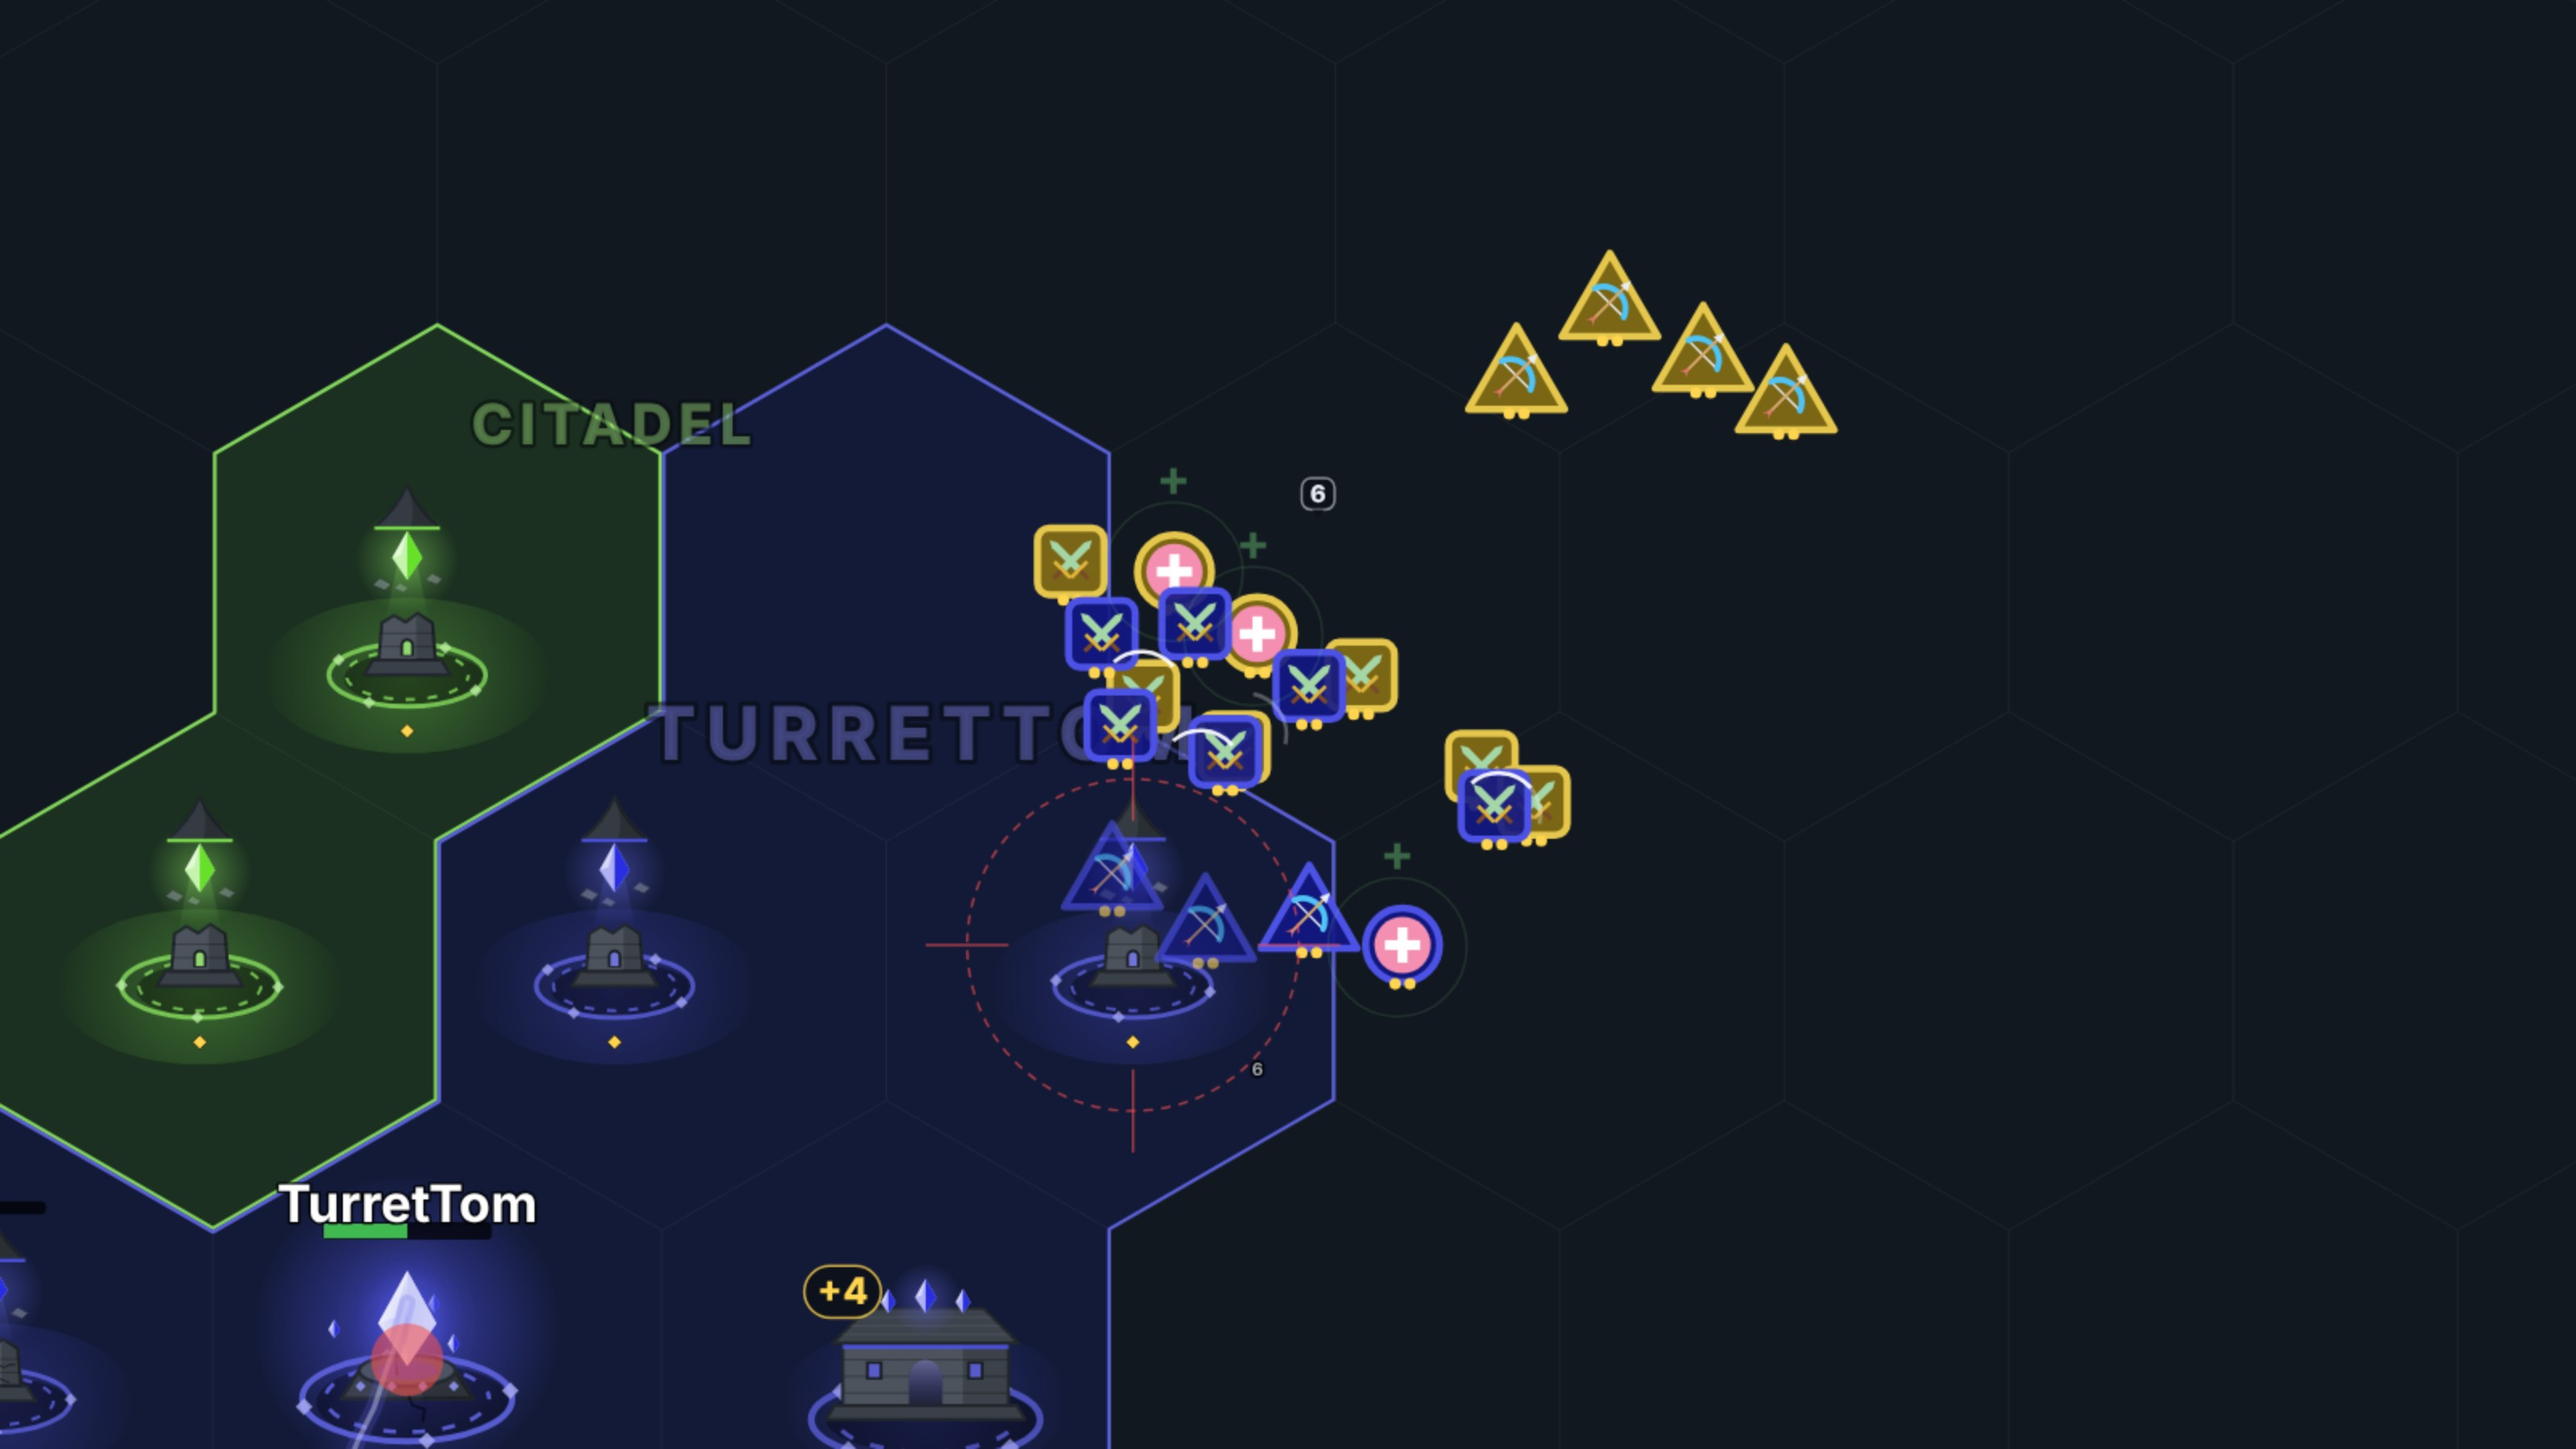
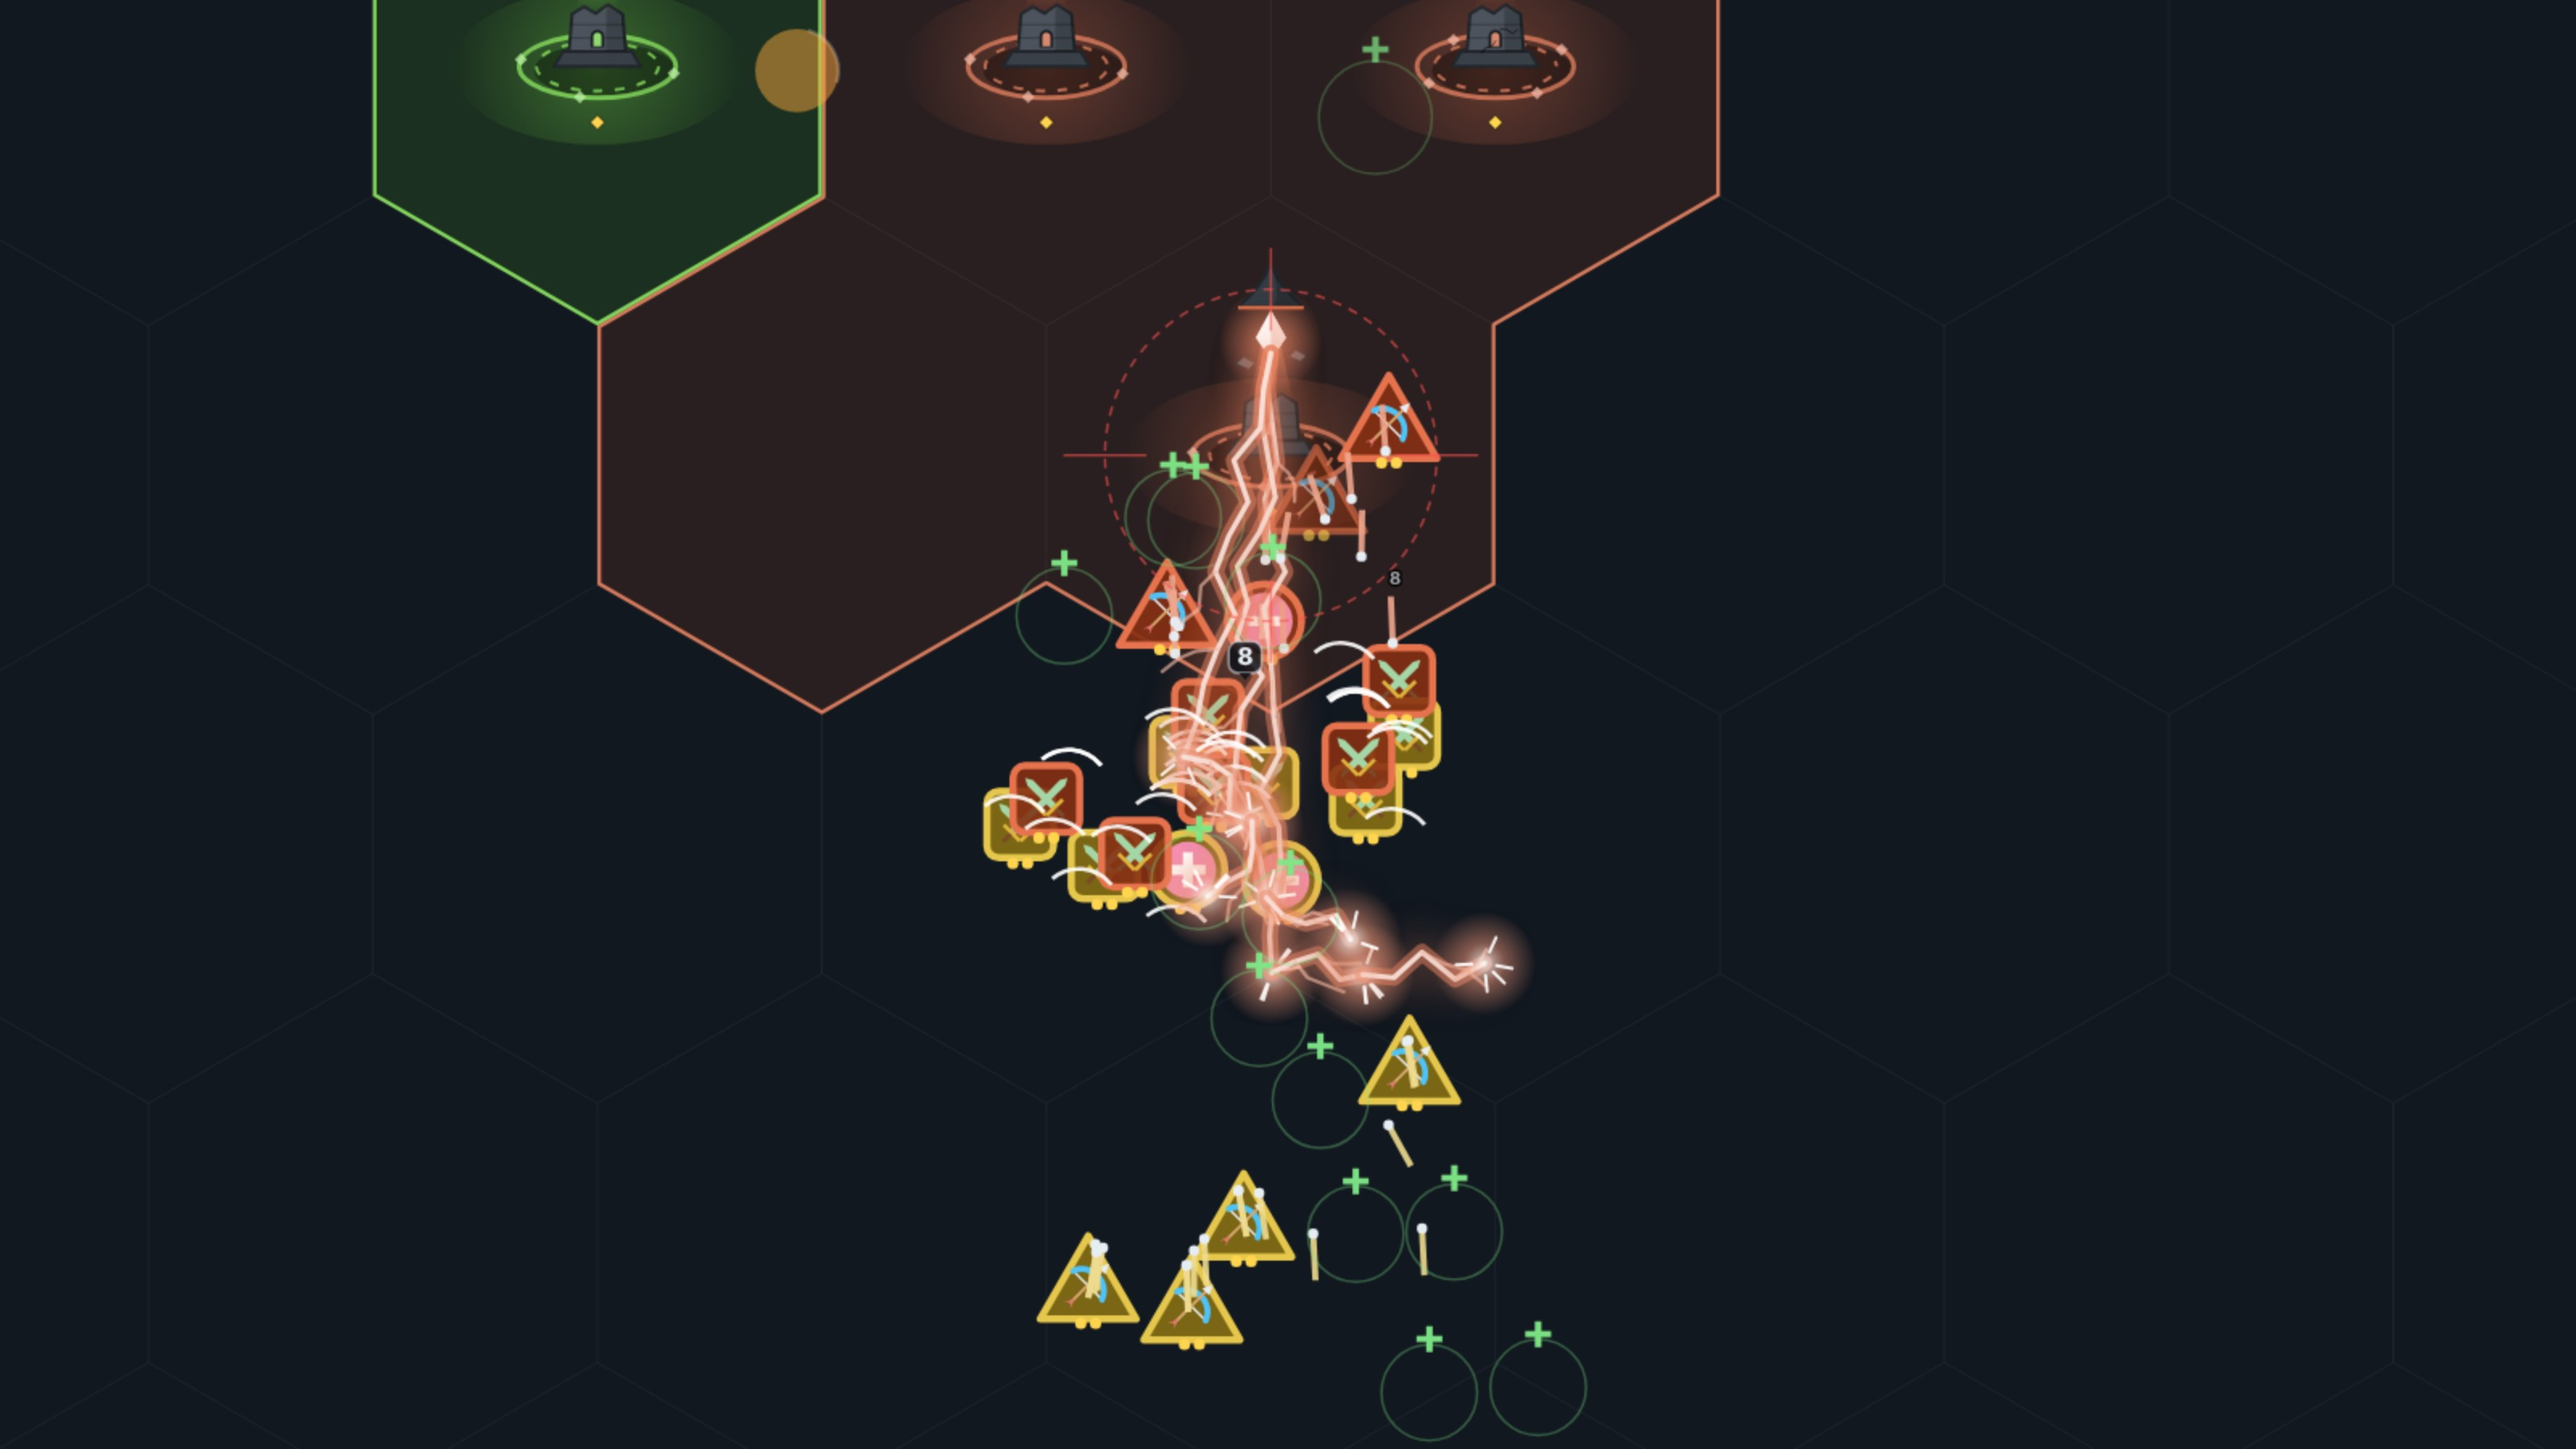
Stronger towers: chain lightning
Towers barely hurt the armies attacking them (40 dmg/s on one troop at a
time, out-healed by two medics). Now:
- Tower and core bolts chain to up to 2 more enemies within 2.5 tiles, each at
  75% of the previous hit.
- Tower damage 58 (was 40), but +20% per level (was +60%), so upgraded towers
  stay beatable.
Level 1: one wave fails, two waves take it losing about half; level 3 needs
about 14-16 troops. Rounds still last 12-22 minutes.

Claude-Session: https://claude.ai/code/session_01Ryddt8EqVvd3a1HwS4TL86

diff --git a/test/waves.test.js b/test/waves.test.js
@@ -179,7 +179,7 @@ test('orders: every squad, or only picked troops (which split off as a squad of 
 test('an attack marches across the map and takes an undefended tower', () => {
   const { g, a, b } = duel(5);
   const t = outpost(g, b);
-  const squad = troops(g, a, 'soldier', 5, a.core.x + 0.5, a.core.y + 2);
+  const squad = troops(g, a, 'soldier', 9, a.core.x + 0.5, a.core.y + 2);
   g.order(a.id, squad.map((u) => u.id), { k: 't', id: t.id });
   assert.ok(run(g, 120, () => t.owner !== b.id), 'tower should fall');
   assert.strictEqual(t.owner, a.id, 'the attackers destroy and claim it');
@@ -516,4 +516,20 @@ test('standing troops fill their hex in an even formation', () => {
   const h2 = new Set(second.map((u) => g.hexAt(Math.floor(u.x), Math.floor(u.y))));
   assert.strictEqual(h2.size, 1);
   assert.notStrictEqual([...h2][0], h, 'each squad has its own hex');
+});
+
+test("a tower's lightning chains on to nearby enemies, weaker each jump", () => {
+  const { g, a, b } = duel(33);
+  const t = outpost(g, b);
+  // three of a's soldiers in a tight line, the first in the tower's range
+  const near = troops(g, a, 'soldier', 3, t.x + 0.5 - 3, t.y + 0.5);
+  near.forEach((u, i) => { u.x = t.x + 0.5 - 3 - i * 1.0; u.y = t.y + 0.5; u.hp = u.maxHp = 1e6; u.attack = { k: 'p', id: g.idx(Math.floor(u.x), Math.floor(u.y)) }; });
+  g.buildUnitGrid();
+  t.cd = 0;
+  g.updateStructures(0.05);
+  const lost = near.map((u) => 1e6 - u.hp);
+  const dmg = C.towerStats('tower', t.level).damage;
+  assert.ok(Math.abs(lost[0] - dmg) < 1e-6, 'the nearest is hit in full');
+  assert.ok(Math.abs(lost[1] - dmg * C.CHAIN_FALLOFF) < 1e-6, 'the bolt jumps on, weaker');
+  assert.ok(Math.abs(lost[2] - dmg * C.CHAIN_FALLOFF ** 2) < 1e-6, 'and again');
 });

diff --git a/shared/config.js b/shared/config.js
@@ -76,6 +76,11 @@
     PROVOKE_RANGE: 7, // ...if it's within their range + this
     // Fog of war: you see your own land plus what your core, buildings and troops can see.
     CORE_SIGHT: 9,
+    // Chain lightning: a tower's (or core's) bolt jumps from its target to up to CHAIN_JUMPS more
+    // enemies, each within CHAIN_RANGE of the last one hit, dealing CHAIN_FALLOFF of the previous hit.
+    CHAIN_JUMPS: 2,
+    CHAIN_RANGE: 2.5,
+    CHAIN_FALLOFF: 0.75,
     TOWER_SIGHT_BONUS: 2, // towers see this much past their range
     BARRACKS_SIGHT: 5,
     SCOUT_RANGE: 45, // scouts explore up to this far from their core
@@ -150,7 +155,7 @@
     // Fixed structures.
     TOWERS: {
       tower: {
-        name: 'Tower', key: 'B', cost: 120, hp: 2400, range: 5, damage: 40, rate: 1,
+        name: 'Tower', key: 'B', cost: 120, hp: 2400, range: 5, damage: 58, dmgPerLevel: 0.2, rate: 1,
         color: '#80deea', desc: 'Zaps enemy troops that come near. Build on your own land',
       },
       barracks: {
@@ -216,7 +221,7 @@
     const l = level - 1;
     return {
       hp: Math.round(d.hp * (1 + 0.5 * l)),
-      damage: d.damage ? d.damage * (1 + 0.6 * l) : 0,
+      damage: d.damage ? d.damage * (1 + (d.dmgPerLevel ?? 0.6) * l) : 0,
       heal: d.heal ? d.heal * (1 + 0.6 * l) : 0,
       range: d.range ? d.range + 0.5 * l : 0,
       rate: d.rate || 0,

diff --git a/server/game/combat.js b/server/game/combat.js
@@ -128,7 +128,31 @@ module.exports = {
       if (!target) continue;
       sh.obj.cd = 1 / sh.rate;
       this.fx.push({ k: 'tshot', x1: sh.x, y1: sh.y, x2: round2(target.x), y2: round2(target.y), o: sh.owner });
+      // chain lightning: the bolt jumps on to nearby enemies, weaker each time
+      const hit = new Set([target.id]);
+      let from = target;
+      let dmg = sh.damage;
+      const chain = [];
+      for (let j = 0; j < C.CHAIN_JUMPS; j++) {
+        let next = null;
+        let nd = C.CHAIN_RANGE;
+        for (const u of this.nearUnits(from.x, from.y, C.CHAIN_RANGE)) {
+          if (u.owner === sh.owner || hit.has(u.id)) continue;
+          const d = dist(from.x, from.y, u.x, u.y);
+          if (d <= nd) {
+            nd = d;
+            next = u;
+          }
+        }
+        if (!next) break;
+        dmg *= C.CHAIN_FALLOFF;
+        hit.add(next.id);
+        chain.push([next, dmg]);
+        this.fx.push({ k: 'tshot', c: 1, x1: round2(from.x), y1: round2(from.y), x2: round2(next.x), y2: round2(next.y), o: sh.owner });
+        from = next;
+      }
       this.damageUnit(target, sh.damage, sh.owner);
+      for (const [u, d] of chain) if (this.units.has(u.id)) this.damageUnit(u, d, sh.owner);
     }
   },
 };

diff --git a/public/js/net.js b/public/js/net.js
@@ -228,8 +228,8 @@ function applyState(msg) {
       // the attacker lunges at its target (drawn in troops.js / camps.js)
       S.lunges.set(f.a, { at: now + INTERP_DELAY, x: f.x, y: f.y });
     }
-    if (f.k === 'tshot') {
-      // flare the shooting tower's (or core's) crystal
+    if (f.k === 'tshot' && !f.c) {
+      // flare the shooting tower's (or core's) crystal (chain jumps, f.c, start at a troop)
       const tx = Math.floor(f.x1);
       const ty = Math.floor(f.y1);
       const t = S.towers.get(grid.get(`${tx},${ty}`));

diff --git a/README.md b/README.md
@@ -48,7 +48,7 @@ closes after a minute. **Play** still drops you into the always-running public g
 | **Hunting** | **Right-click an enemy troop** to send your troops after it. They chase it down and focus it, ignoring other enemies on the way. When it dies they go after its squadmates within 6 tiles, then head home once the squad is gone. A red crosshair marks troops you're hunting. Hunts use the picked squads (or picked troops) like other orders, but are a one-off: the squads keep their standing orders. |
 | **The push** | Troops march across the map (pathfinding around structures), fight whatever they meet, then hit the target. When a tower falls, the push rolls on to that player's next tower, then their core. |
 | **Land** | The map is a grid of **hexagons**, and land is owned hex by hex. You start with your core's hex and the six around it. **Claim more with gold**: press `L` (or the **Land** button), then click an empty hex touching your border, or **drag along it** to claim a strip. **Double-click anywhere outside your land** to grow it one hex outward all round (if your gold doesn't cover the whole ring, the hexes nearest where you clicked come first). A hex costs more the more land you own (about 140g each at the start). **Enemy land can't be claimed**: take one of their towers and their hexes next to it open up (you get the tower's hex), and **destroying a core wins you all of that player's land** (a player who leaves is replaced by a bot, who keeps it). Open hexes can be claimed by anyone whose land touches them. A hex with a building in it always stays its owner's. |
-| **Towers** | Zap enemy troops with lightning and **hold your land** (they claim none themselves). Each is a wizard tower whose top floats in pieces above its broken stump, held up by magic around a crystal. Your core (a great crystal over a rune circle) zaps too. Barracks are crystal halls: stone halls with crystals on the roof ridge and a doorway that flares as each wave marches out. Higher levels: a taller stump with a band, a spinning rune ring, gold runes and a glowing aura. Towers and barracks stand at the centre of one of your own hexes, one building per hex, and not in a hex next to an enemy building or core. |
+| **Towers** | Zap enemy troops with **chain lightning** (58 damage; each bolt jumps on to up to 2 more enemies nearby, at 75% of the previous hit, so crowds suffer most). Cores zap the same way. A level 1 tower holds off one wave, two waves take it with heavy losses, and a level 3 tower needs a real army and **hold your land** (they claim none themselves). Each is a wizard tower whose top floats in pieces above its broken stump, held up by magic around a crystal. Your core (a great crystal over a rune circle) zaps too. Barracks are crystal halls: stone halls with crystals on the roof ridge and a doorway that flares as each wave marches out. Higher levels: a taller stump with a band, a spinning rune ring, gold runes and a glowing aura. Towers and barracks stand at the centre of one of your own hexes, one building per hex, and not in a hex next to an enemy building or core. |
 | **Taking towers** | **Destroy** one and it becomes yours (+150g): it keeps its level, comes back at 70% health, and the enemy's hexes next to it open up (you get the tower's own hex). The attackers stay on as its garrison and your waves push on to that player's next tower. Towers only become ruins when their owner's core falls with nobody to take them. |
 | **Gold** | Land pays a steady income (1.5g/s + 0.015g/s per tile; tiles beyond 400 pay 40% of that, so a huge empire doesn't run away with the game). The rest comes from fighting: 14g per enemy troop killed (+6 per troop level), 40–250g per barbarian (a whole camp pays 120–370g), 150g for a tower, and 250g plus all of their gold for a core. Each bounty pops up where you earned it, and the death screen breaks down where your gold came from. |
 | **Barbarian camps** | 12 neutral barbarian camps, spread out (each is placed as far as possible from the others, at least 18 tiles apart), in three sizes: **Raider Camp** (3 axe raiders, 120g), **Barbarian Outpost** (a club-wielding brute + 2 raiders, 190g) and **Warlord's Fort** (a crowned warlord + 2 spearmen, 370g + buff). Each camp is a **tent village** on trampled earth: 3 tents for a Raider Camp, 4 plus war banners for an Outpost, and 5 with a watchtower for the Warlord's Fort (its beacon fire marks the buff). Barbarians are red-rimmed tokens with horned helmets; the weapon tells you the type. They're passive until attacked, then the whole camp fights back. Hover a camp to see what it pays; right-click it to send troops. They come back after 45s (the Warlord's Fort after 90s) **in a new random spot**, shown on the map and minimap with a countdown ring. |
